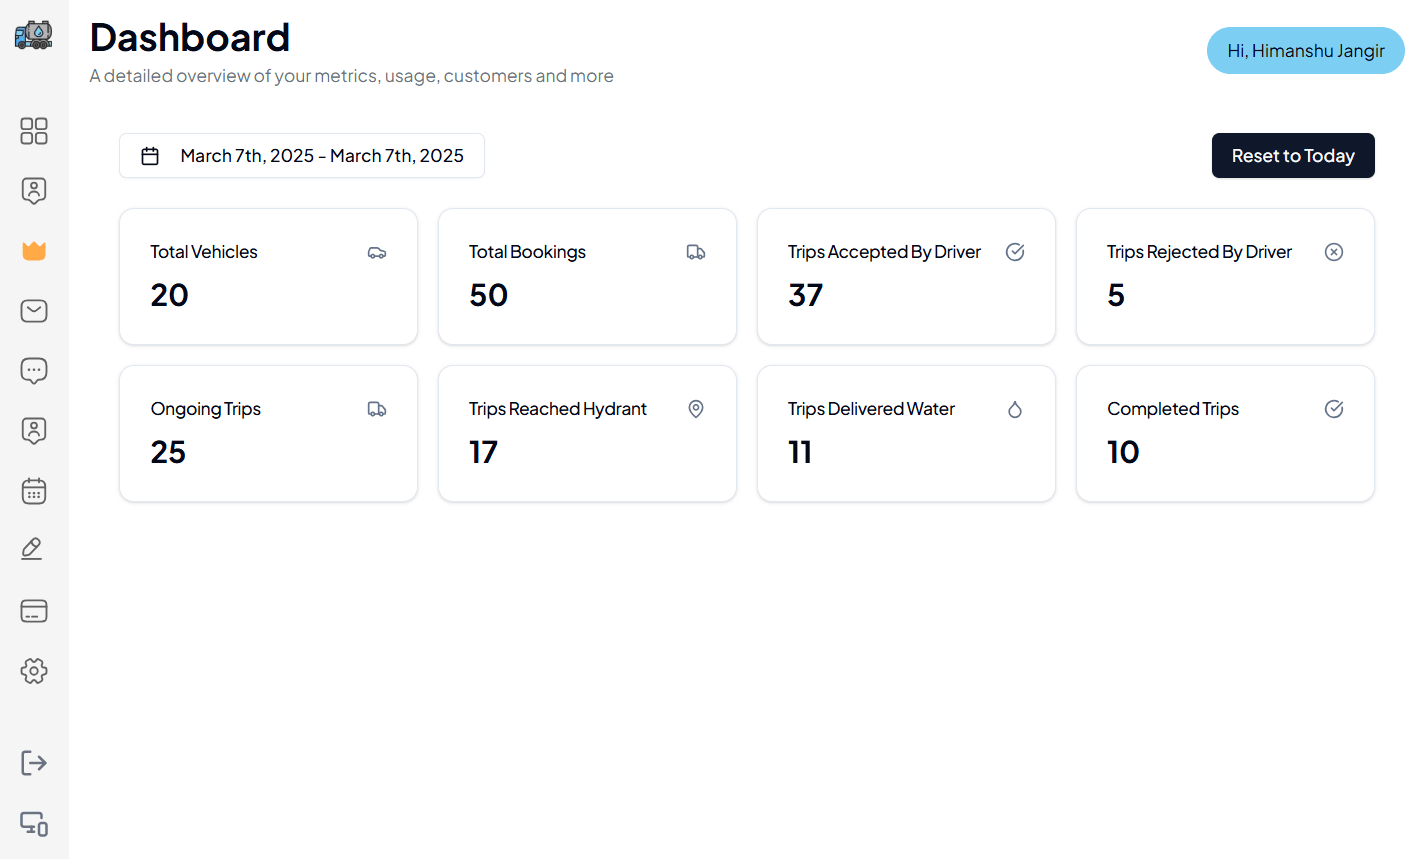
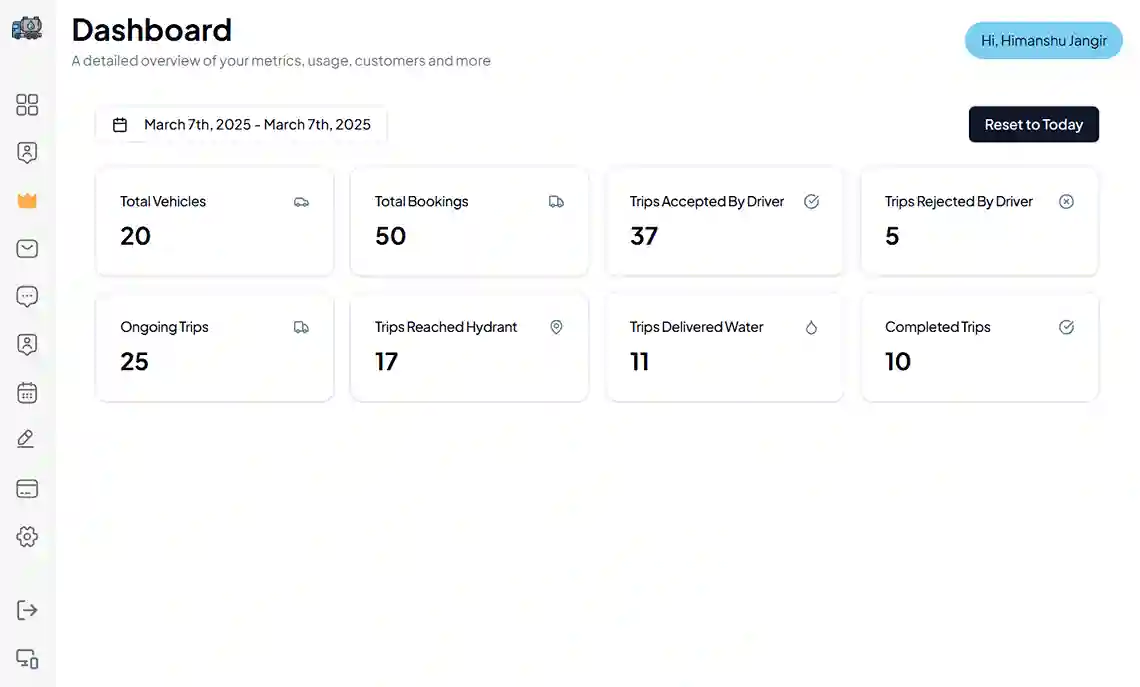
latest commit

diff --git a/src/app/layout.tsx b/src/app/layout.tsx
@@ -18,10 +18,6 @@ export default function RootLayout({
 }>) {
   return (
     <html lang="en">
-      <head>
-        <link rel="preconnect" href="https://rsms.me/" />
-        <link rel="stylesheet" href="https://rsms.me/inter/inter.css" />
-      </head>
       <body 
         suppressHydrationWarning={true}
         className={jakarta.className + " " + cn(
